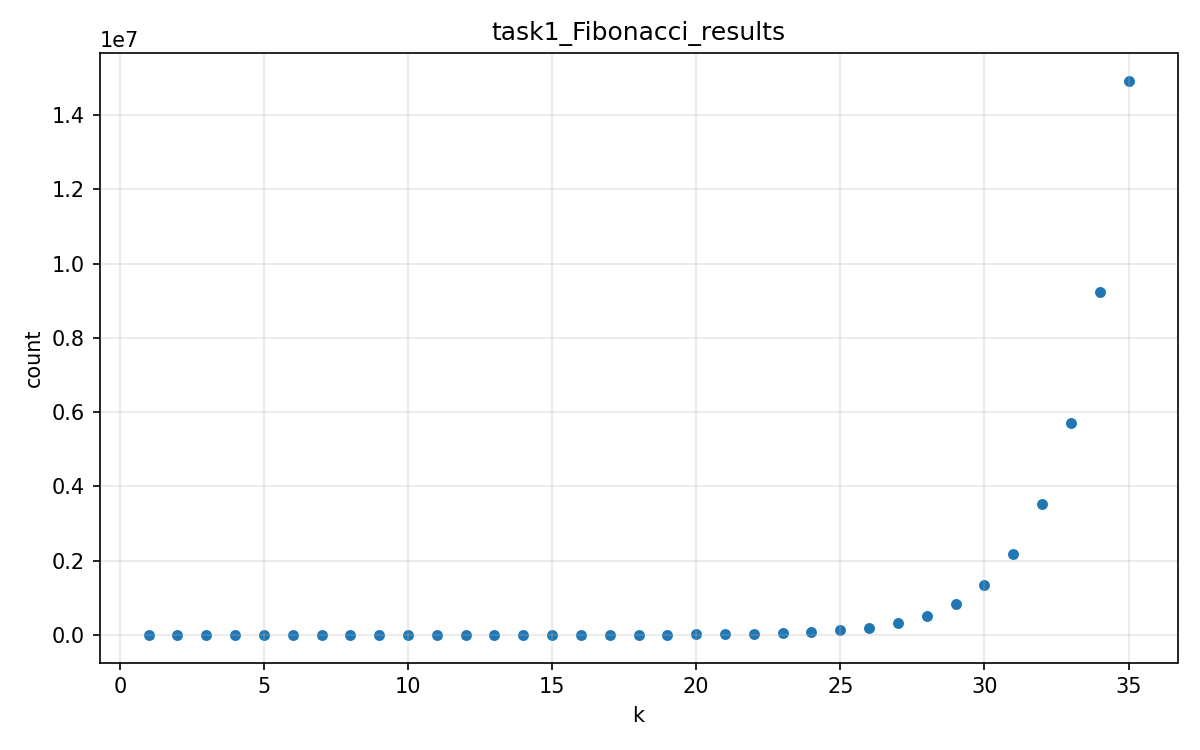
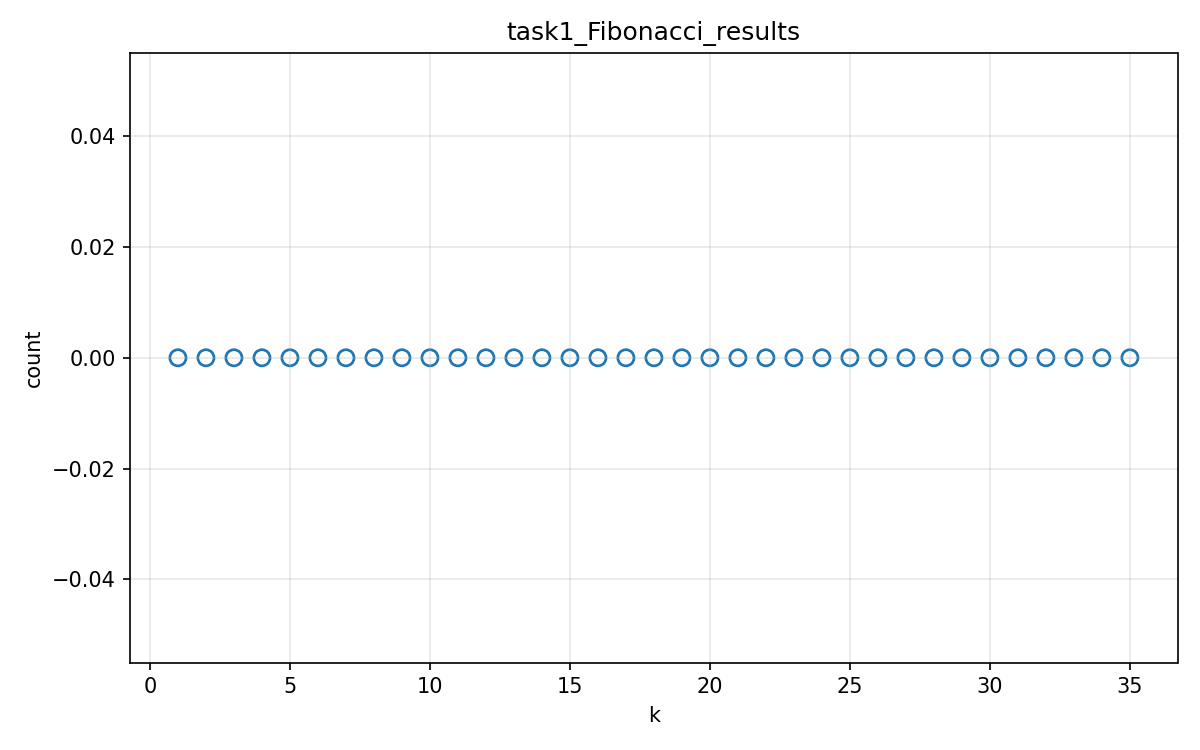
fixed plots so if they grow at the same rate then it will still be represented

diff --git a/plot.py b/plot.py
@@ -41,6 +41,7 @@ PLOT_SETTINGS = {
 }
 
 MARKERS = ["o", "s", "^", "D", "v"]
+MAX_POINTS = 60  # max markers drawn per series (keeps dense data readable)
 
 
 def read_csv(path):
@@ -61,12 +62,21 @@ def plot_file(path):
         name, (name[:-4], x_name, "count", "linear", "linear"))
 
     fig, ax = plt.subplots(figsize=(8, 5))
+    n_series = len(series)
     for i, (label, y) in enumerate(series.items()):
         # log scales can't show 0, so drop those points on log axes
         pts = [(a, b) for a, b in zip(x, y)
                if (xscale != "log" or a > 0) and (yscale != "log" or b > 0)]
+        # with lots of points, show ~MAX_POINTS per series, and start each
+        # series at a different offset so overlapping series interleave
+        step = max(1, len(pts) // MAX_POINTS)
+        pts = pts[(i * step) // n_series::step]
+        # hollow markers, earlier series drawn bigger, so overlaps stay visible
+        color = f"C{i}"
         ax.scatter([p[0] for p in pts], [p[1] for p in pts],
-                   s=18, marker=MARKERS[i % len(MARKERS)], label=label)
+                   s=60 - 15 * i, marker=MARKERS[i % len(MARKERS)],
+                   facecolors="none", edgecolors=color, linewidths=1.3,
+                   label=label)
 
     ax.set_title(title)
     ax.set_xlabel(xlabel)
